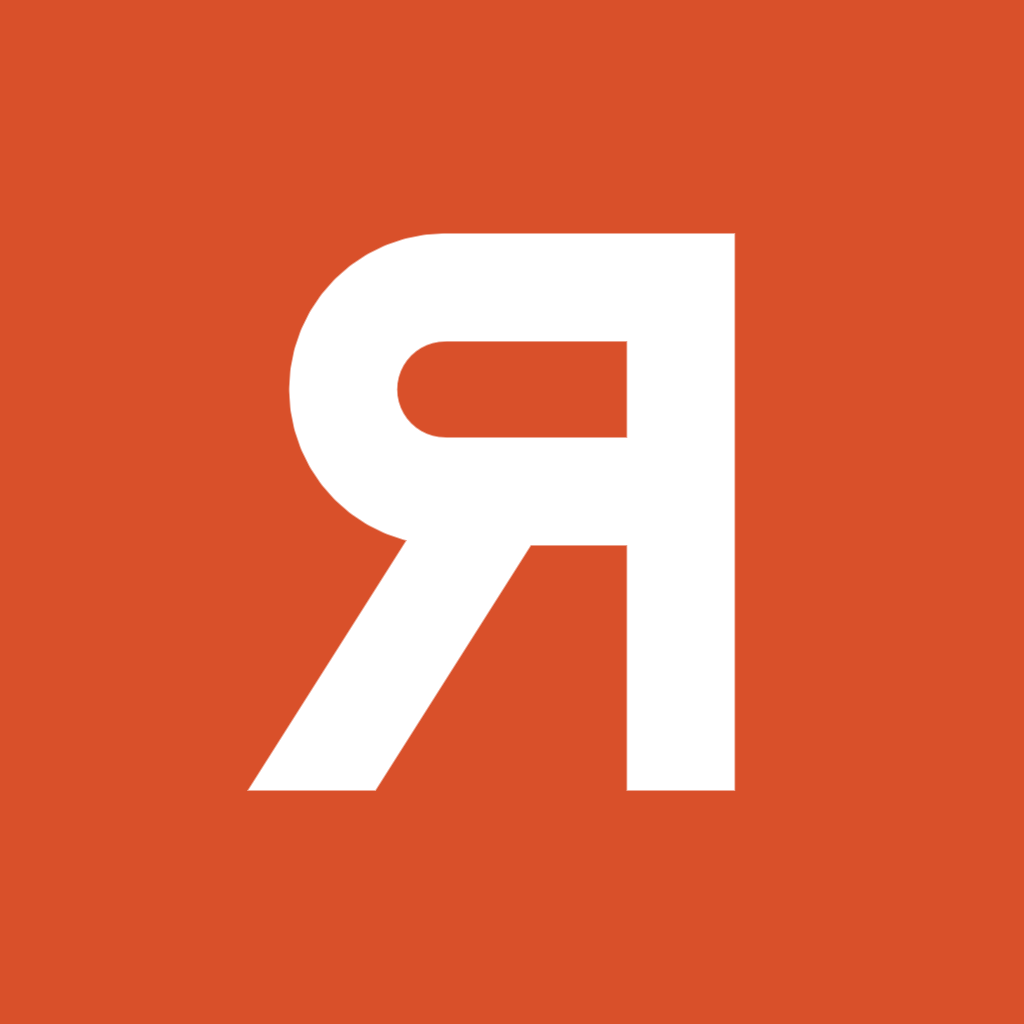
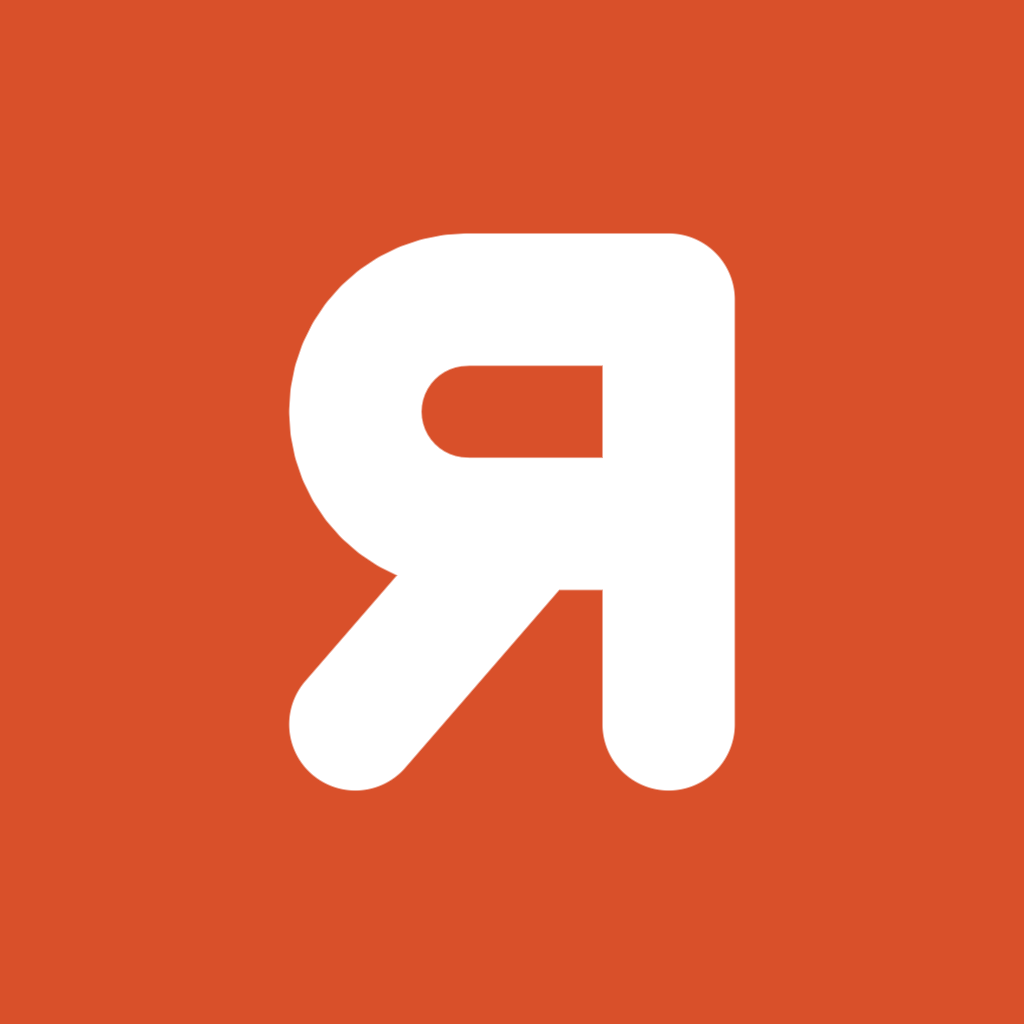
The Я, chubbier and round
Heavier strokes (19% of the tile, was 15.5%) and every end rounded, stem caps and the leg's foot, 'almost like a bubble'; the bowl opened a little so its counter survives at launcher size. make_app_icon.py and mark.js share the geometry.

diff --git a/native/src/mark.js b/native/src/mark.js
@@ -18,13 +18,15 @@ export function Mark({ size = 72, style }) {
     <View testID="mark" accessibilityLabel={APP_NAME} style={style}>
       <Svg width={size} height={size} viewBox="0 0 96 96">
         <Rect x={0} y={0} width={96} height={96} rx={22} fill={LOGO_CORAL} />
-        {/* The stem, full height on the right. */}
-        <Rect x={58.8} y={21.9} width={10.1} height={52.2} fill="#FFFFFF" />
+        {/* Heavy and round, "almost like a bubble" (the owner, 2026-10-02).
+            The stem, full height on the right, its ends rounded. */}
+        <Rect x={56.5} y={21.9} width={12.4} height={52.2} rx={6.2} fill="#FFFFFF" />
         {/* The bowl: along the top, round the left, back along its foot. */}
-        <Path d="M63.8 27 H41.7 A9.6 9.6 0 0 0 41.7 46.1 H63.8"
-              stroke="#FFFFFF" strokeWidth={10.1} fill="none" />
-        {/* The leg, from the bowl's foot to the baseline, cut flat there. */}
-        <Path d="M51.2 48.8 L35.2 74.1 L23.2 74.1 L42.7 43.4 Z" fill="#FFFFFF" />
+        <Path d="M62.7 28.1 H43.8 A10.5 10.5 0 0 0 43.8 49.1 H62.7"
+              stroke="#FFFFFF" strokeWidth={12.4} fill="none" />
+        {/* The leg, from the bowl's foot to the bottom left, its foot rounded. */}
+        <Path d="M49.6 49.1 L33.3 67.9" stroke="#FFFFFF" strokeWidth={12.4}
+              strokeLinecap="round" fill="none" />
       </Svg>
     </View>
   );

diff --git a/tools/make_app_icon.py b/tools/make_app_icon.py
@@ -57,12 +57,14 @@ class Ya:
     def __init__(self, size, inset):
         self.s = size
         span = 1 - 2 * inset
-        self.w = span * 0.155                       # stroke weight
+        # Heavy and round, "almost like a bubble" (the owner, 2026-10-02):
+        # chubbier than the board's Unbounded 800, and no flat ends anywhere.
+        self.w = span * 0.19                       # stroke weight
         self.top, self.bot = inset + span * 0.10, inset + span * 0.90
         width = (self.bot - self.top) * 0.80        # a heavy Я is a little narrow
         self.xl = 0.5 - width / 2
         self.xr = 0.5 + width / 2
-        self.mid = self.top + (self.bot - self.top) * 0.56   # where the bowl closes
+        self.mid = self.top + (self.bot - self.top) * 0.64   # where the bowl closes
         h = self.w / 2
         r = (self.mid - self.top - self.w) / 2      # the bowl's round, centre line
         cx, cy = self.xl + h + r, self.top + h + r
@@ -75,24 +77,22 @@ class Ya:
         pts += [(cx, cy + r), (self.xr - h, cy + r)]
         self.bowl = pts
         # The leg leaves the bowl's foot a little left of centre and lands at
-        # the bottom left — carried past the baseline and cut flat there, so its
-        # foot is square like the stem's rather than a rounded cap.
+        # the bottom left, its foot rounded like every other end.
         sx, sy = cx + r * 0.55, cy + r
-        ex, ey = self.xl + h * 1.05, self.bot - h
-        k = (self.bot + self.w - sy) / (ey - sy) if ey != sy else 1   # no span: the plain background
-        self.leg = ((sx, sy), (sx + (ex - sx) * k, sy + (ey - sy) * k))
+        ex, ey = self.xl + h, self.bot - h
+        self.leg = ((sx, sy), (ex, ey))
 
     def coverage(self, px, py):
         """0..1 how much of this pixel the white mark covers."""
         x, y = px / self.s, py / self.s
         aa = 0.9 / self.s
         h = self.w / 2
-        best = self._rect(x, y, self.xr - self.w, self.top, self.xr, self.bot, 0)     # stem
+        best = self._rect(x, y, self.xr - self.w, self.top, self.xr, self.bot, h)     # stem, round ends
         d = min(seg_dist(x, y, ax, ay, bx, by) for (ax, ay), (bx, by) in zip(self.bowl, self.bowl[1:]))
         best = min(best, d - h)
         (ax, ay), (bx, by) = self.leg
         leg = seg_dist(x, y, ax, ay, bx, by) - h
-        best = min(best, max(leg, y - self.bot))      # flat at the baseline, as the stem is
+        best = min(best, leg)
         return max(0.0, min(1.0, 0.5 - best / aa / 2))
 
     @staticmethod
